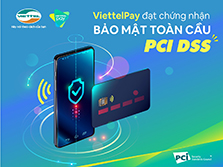
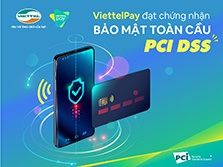
image optimization

diff --git a/index.html b/index.html
@@ -8,7 +8,8 @@
     <meta name="viewport" content="width=device-width, initial-scale=1, shrink-to-fit=no">
     <meta name="description" content="Viettelpay Huế - hỗ trợ và tư vấn giúp đỡ bạn khi sử dụng tại Huế">
     <meta name="keywords" content="Viettelpay Huế, Viettelpay, Ứng Dụng Viettelpay, thanh toán và chuyển tiền Viettelpay, miễn phí Viettelpay">
-
+    
+    <link rel="icon" type="image/png" sizes="32x32" href="https://jonirenoug.github.io/viettelpayhue/images/favicon.png">
     <!-- Font -->
     <link rel="dns-prefetch" href="//fonts.googleapis.com">
     <link href="https://fonts.googleapis.com/css?family=Rubik:300,400,500" rel="stylesheet">
